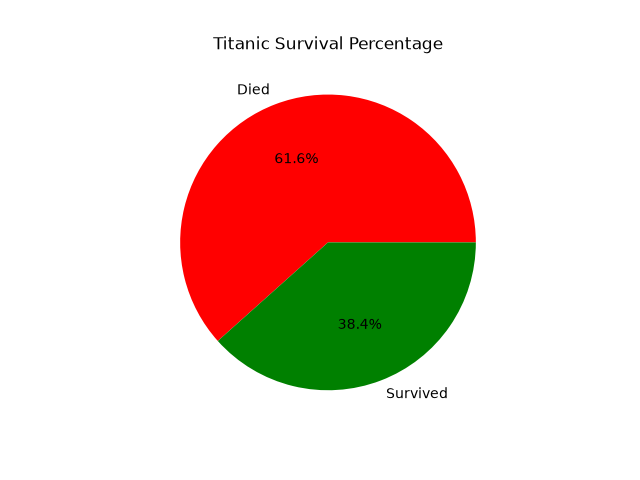
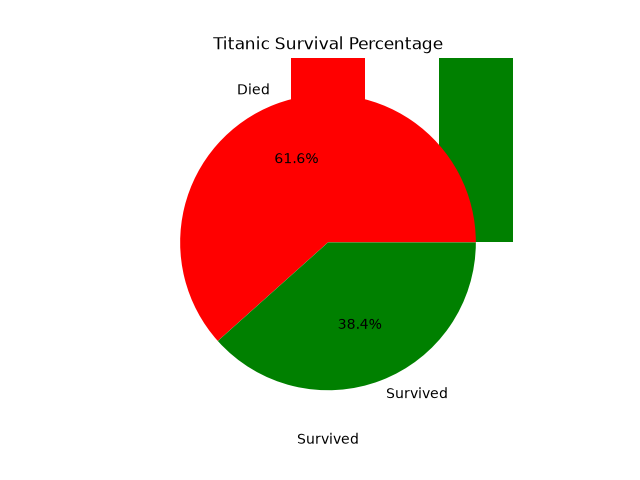
added analysis of survival rate based on sex

Changed region(s): [[0.6875, 0.0938, 0.8125, 0.5312], [0.4375, 0.0938, 0.5938, 0.2188], [0.4688, 0.9062, 0.5625, 0.9375]]

diff --git a/cleaner.py b/cleaner.py
@@ -15,7 +15,11 @@ print(data.isnull().sum())
 
 print("\n--- Dataset Stats --- ")
 print("Average Age:", np.round(data['Age'].mean(), 1))
+print("Average Fare:", np.round(data['Fare'].mean(), 2))
+print("Gender Distribution:", np.round(data['Sex'].value_counts(normalize=True).loc['male']*100, 1), "% male and", np.round(data['Sex'].value_counts(normalize=True).loc['female']*100, 1), "% female")
 print("Survival Rate:", np.round(data['Survived'].mean() * 100, 1), "%")
+print("Survival Rate of Women:", np.round(data['Survived'][data['Sex'] == "female"].mean() * 100, 1), "%")
+print("Survival Rate of Men:", np.round(data['Survived'][data['Sex'] == "male"].mean() * 100, 1), "%")  
 print("Oldest Passenger Age:", data['Age'].max())
 print("Youngest Passenger Age:", data['Age'].min())
 
@@ -26,7 +30,7 @@ plt.xticks([0,1], ["Died", "Survived"], rotation=0)
 plt.ylabel('Number of Passengers')
 plt.savefig('titanic_survival_chart.png')
 print("\nSurvival count bar chart saved as 'titanic_survival_chart.png'!")
-plt.show()
+
 
 # Survival % pie chart
 data['Survived'].value_counts().sort_index().plot(kind='pie', labels=['Died', 'Survived'], colors=['red', 'green'], autopct="%1.1f%%")
@@ -34,4 +38,3 @@ plt.title('Titanic Survival Percentage')
 plt.ylabel('')
 plt.savefig('titanic_survival_pie_chart.png')
 print("\nSurvival percentage pie chart saved as 'titanic_survival_pie_chart.png'!")
-plt.show()